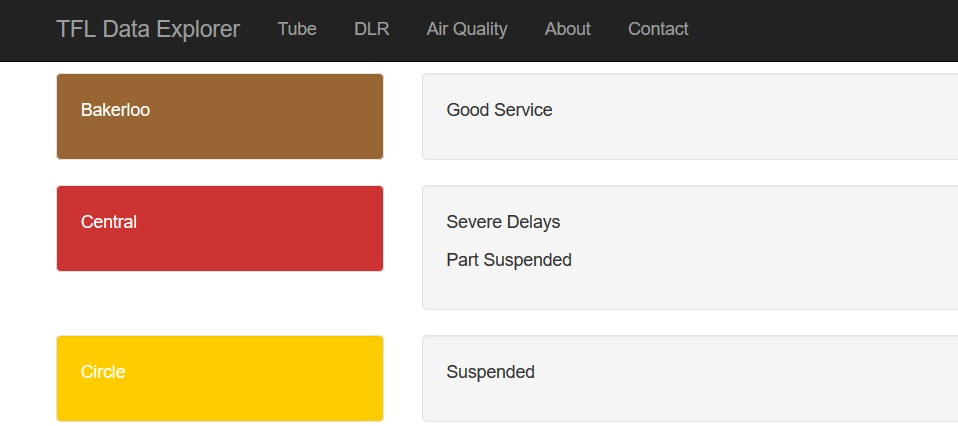
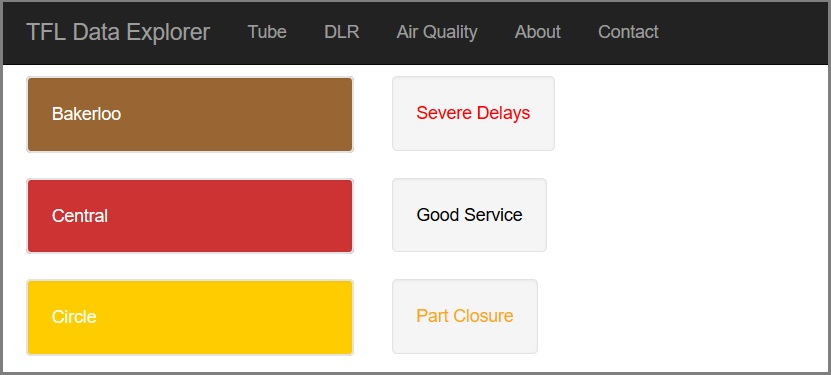
New screenshot

Changed region(s): [[0.0, 0.0, 1.0, 1.0]]

diff --git a/src/TFLDataExplorer/wwwroot/lib/bootstrap/dist/css/bootstrap.css b/src/TFLDataExplorer/wwwroot/lib/bootstrap/dist/css/bootstrap.css
@@ -6759,3 +6759,14 @@ button.close {
   }
 }
 /*# sourceMappingURL=bootstrap.css.map */
+.line-status-div {
+  min-height: 20px;
+  padding: 19px;
+    display: inline-block;
+  margin-bottom: 20px;
+  background-color: #f5f5f5;
+  border: 1px solid #e3e3e3;
+  border-radius: 4px;
+  -webkit-box-shadow: inset 0 1px 1px rgba(0, 0, 0, .05);
+          box-shadow: inset 0 1px 1px rgba(0, 0, 0, .05);
+}
